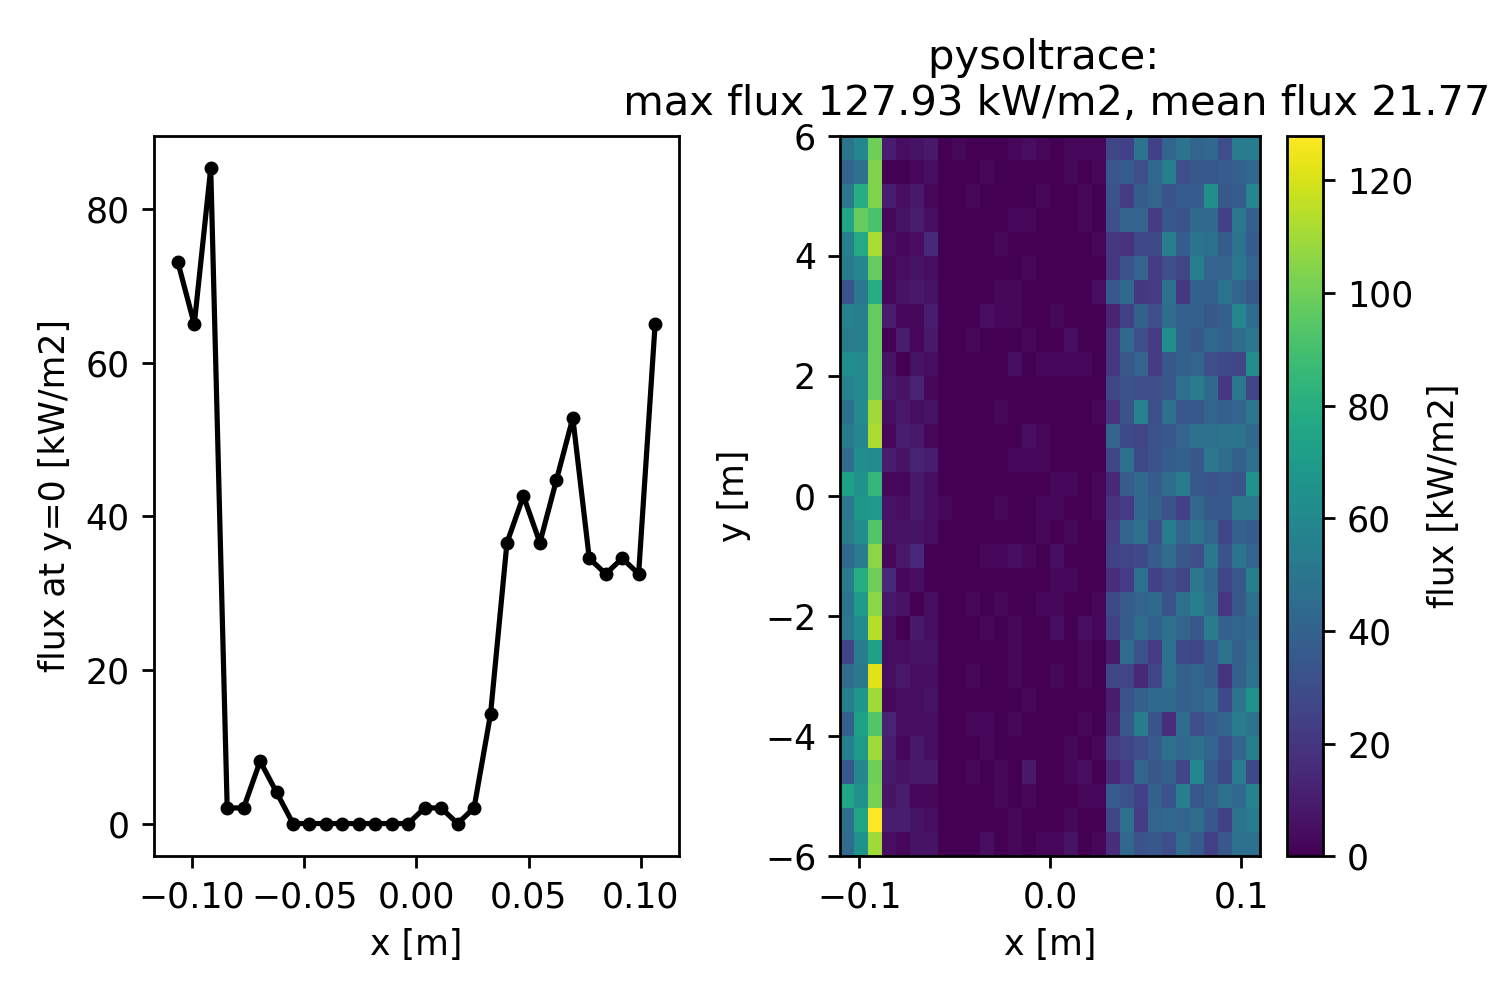
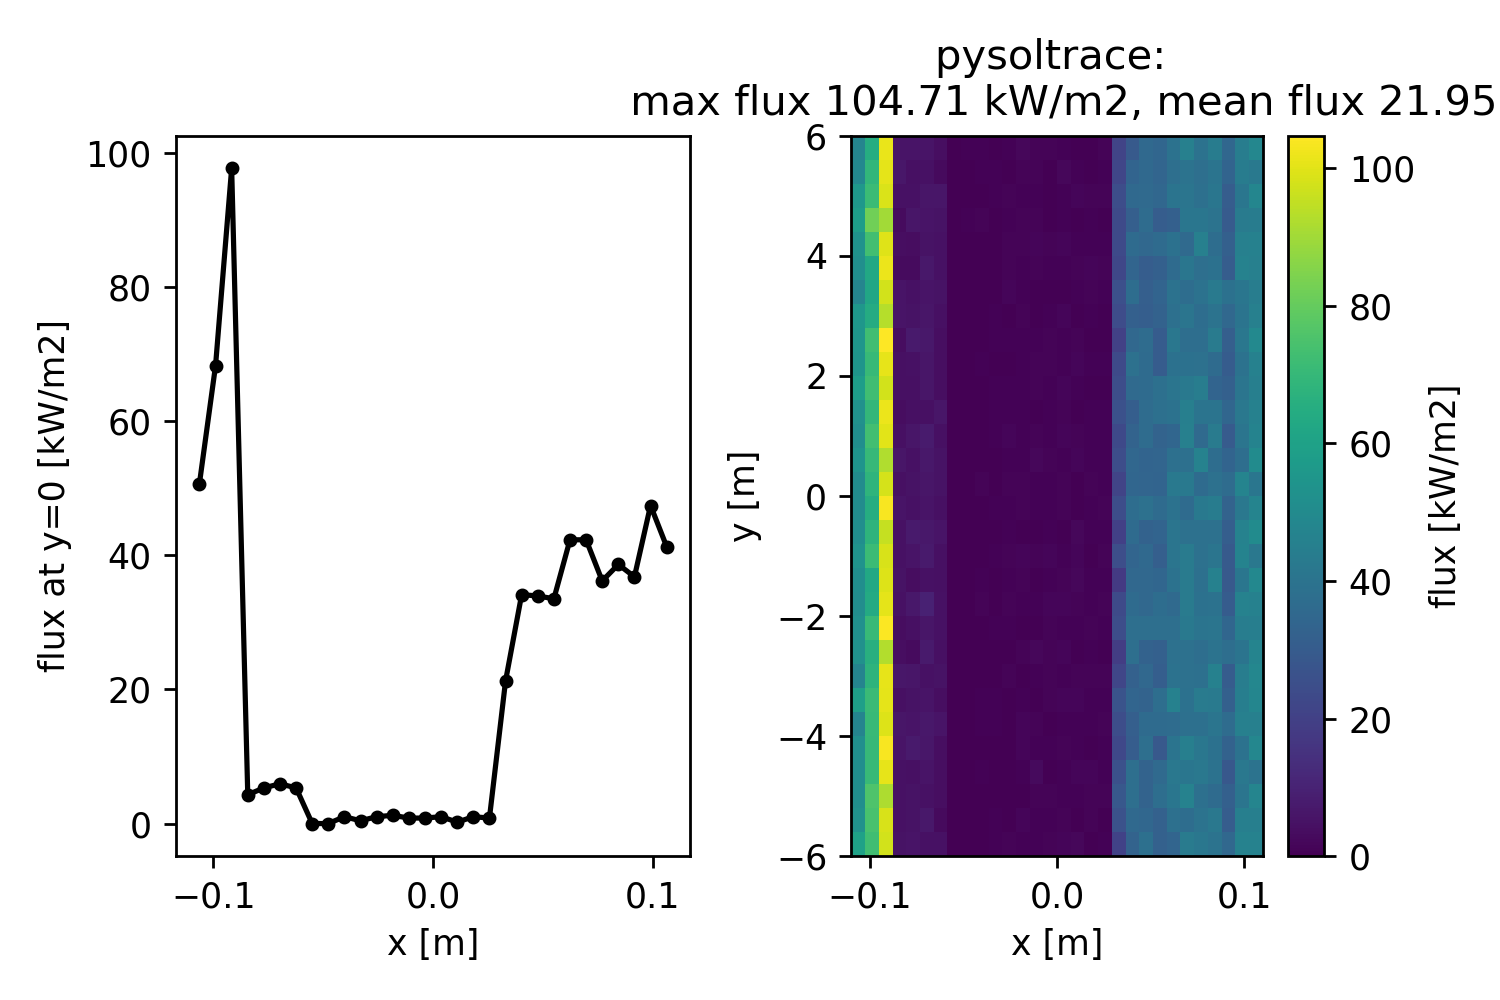
removing pickle dependency, using csv instead

diff --git a/app/deploy/api/examples/parabolic-trough-tracking-timeseries/run_pysoltrace_iterate.py b/app/deploy/api/examples/parabolic-trough-tracking-timeseries/run_pysoltrace_iterate.py
@@ -15,7 +15,7 @@ import matplotlib.pyplot as plt
 import numpy as np
 import math
 import time
-import pickle
+# import pickle
 # import plotly.graph_objects as go
 # import plotly.io as io
 # io.renderers.default='browser'
@@ -315,10 +315,9 @@ def run_soltrace_iterate(tilt_angle_data, latitude, longitude, altitude, tracker
         # read pickle file of nominal results if you haven't already
         if tracker_angle_input_mode == 'field':
             print('reading nominal results dataframe for comparison')
-            nomfn = './nominal_{}_{}_*hits_{}_optics.p'.format(sensorinputdata.index[0].month,sensorinputdata.index[0].day,optics_type)
+            nomfn = './nominal_{}_{}_*hits_{}_optics.csv'.format(sensorinputdata.index[0].month,sensorinputdata.index[0].day,optics_type)
             if len(glob.glob(nomfn)) > 0: # if file exists
-                tmp = pickle.load(open(glob.glob(nomfn)[-1],'rb'))
-                nominaldf = tmp['nominal']
+                nominaldf = read_results_csv(glob.glob(nomfn)[-1])
             else:
                 # if nominal has not been run already, then fill with NaNs
                 nominaldf = resultsdf.copy()
@@ -328,11 +327,11 @@ def run_soltrace_iterate(tilt_angle_data, latitude, longitude, altitude, tracker
             plot_time_series_compare(nominaldf, sensorinputdata, resultsdf, x, sensorloc)
     
     #% save variables to pickle file
-    if save_pickle == True:
-        if tracker_angle_input_mode == 'field':
-            pickle.dump(results, open('./{}_{}_{}_{:.0E}hits_{}_optics.p'.format(tracker_angle_input_mode,inputdata.index[0].month,inputdata.index[0].day,int(number_hits),optics_type), 'wb'))
-        else:
-            pickle.dump(results, open('./{}_{:.0E}hits_{}_optics.p'.format(tracker_angle_input_mode,int(number_hits),optics_type), 'wb'))
+    # if save_pickle == True:
+    #     if tracker_angle_input_mode == 'field':
+    #         pickle.dump(results, open('./{}_{}_{}_{:.0E}hits_{}_optics.p'.format(tracker_angle_input_mode,inputdata.index[0].month,inputdata.index[0].day,int(number_hits),optics_type), 'wb'))
+    #     else:
+    #         pickle.dump(results, open('./{}_{:.0E}hits_{}_optics.p'.format(tracker_angle_input_mode,int(number_hits),optics_type), 'wb'))
 
     if tracker_angle_input_mode == 'field':
         plot_time_series_optical_results(results, nominaldf)

diff --git a/app/deploy/api/examples/parabolic-trough-tracking-timeseries/example_run.py b/app/deploy/api/examples/parabolic-trough-tracking-timeseries/example_run.py
@@ -23,8 +23,8 @@ sunshape_flag = False
 sfcerr_flag = False
 optics_type = 'realistic' # 'ideal'
 plot_rays = False # plot rays in ray-tracing simulation using plotly - this can be slow with more than 1e4 rays
-save_pickle = False # save results as pickle file
-n_hits = 1e6 #1e5 # 5e6 # 1e5 
+save_pickle = False # save results as pickle file (must install pickle in env and uncomment lines in run_soltrace_iterate.py)
+n_hits = 1e5 #1e5 # 5e6 # 1e5 
 nx = 30
 ny = 30
 
@@ -44,7 +44,7 @@ altitude = 543 #m
 # running with field data timeseries =============================================
 tracker_angle_input_mode = 'field' # 'validation' 'nominal'
 sensorlocs = ['R4_DO','R4_SO'] # sensor location names
-field_data = pd.read_pickle("./example_field_data.p") # previously prepared for this example
+field_data = pd.read_csv('example_field_data.csv', index_col=0, parse_dates=True)
 
 if __name__ == "__main__":
     results, df = run_soltrace_iterate(field_data, lat, lon, altitude, tracker_angle_input_mode, sensorlocs, 

diff --git a/app/deploy/api/examples/parabolic-trough-tracking-timeseries/st_processing_functions.py b/app/deploy/api/examples/parabolic-trough-tracking-timeseries/st_processing_functions.py
@@ -44,6 +44,18 @@ def set_optics_props(optics_type):
         # tau = 0.95 # transmittance of glass envelope
     return refl_rho, absr_alpha, absr_rho, refl_spec
 
+def str_to_array(x):
+    return np.array(list(np.float_(x)))
+
+def read_results_csv(filename):
+    df = pd.read_csv(filename, index_col=0, parse_dates=True, converters={"flux_centerline": lambda x: x.strip("[]").replace("\n","").split()})
+    
+    # convert to array of floats
+    new_flux_centerline_col = df.flux_centerline.apply(str_to_array)
+    df['flux_centerline'] = new_flux_centerline_col
+    
+    return df
+
 def get_trough_angles_py(times, lat, lon, alt):
     # tstart and tend in UTC
     #times = pd.date_range(tstart, tend, freq=inpfreq)
